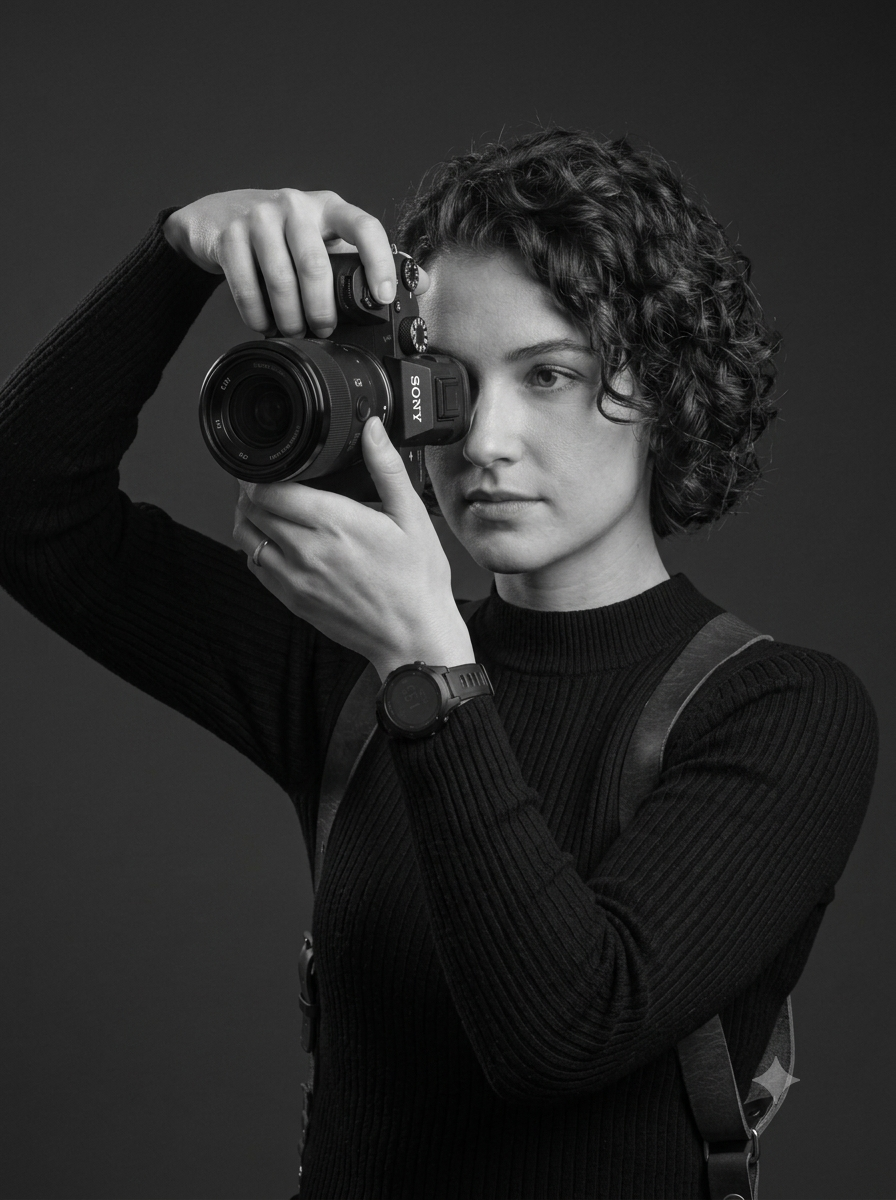
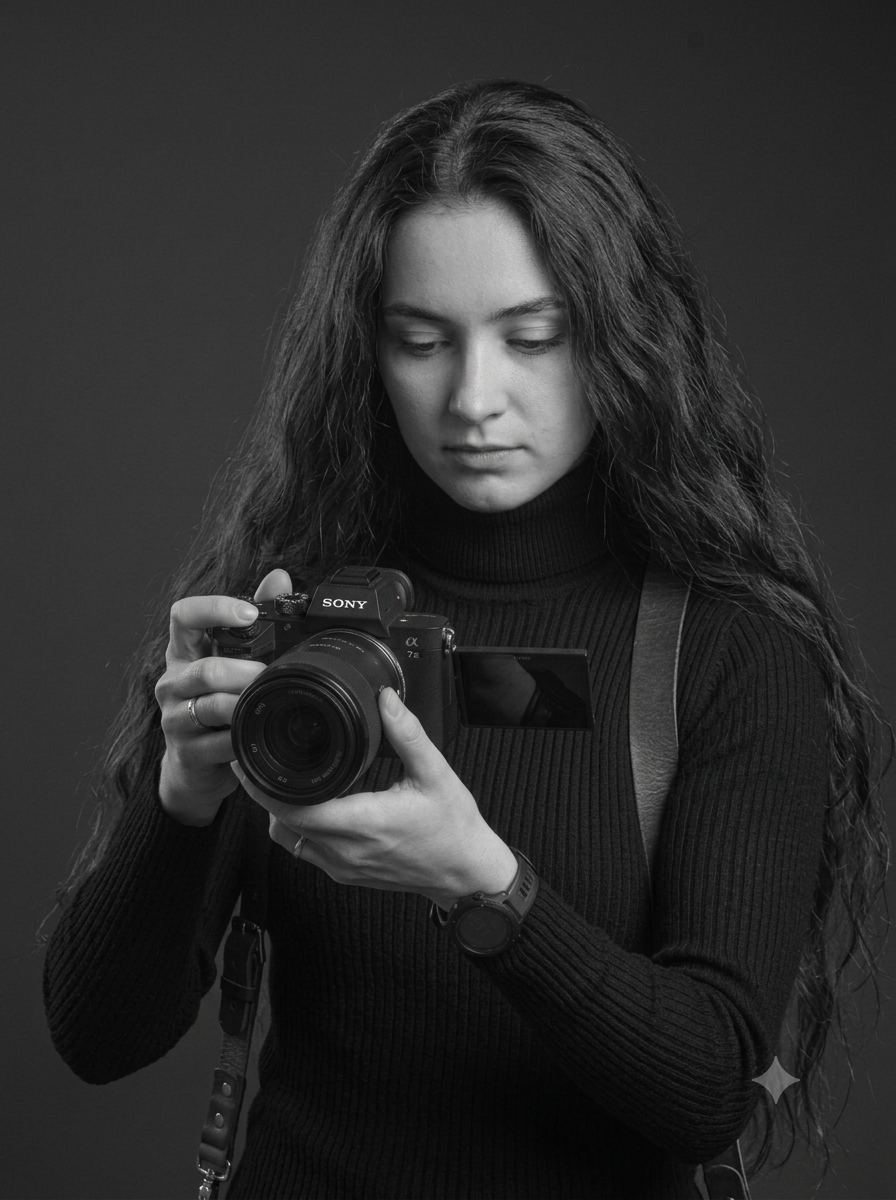
add our team grid

diff --git a/frontend/src/components/OurTeamGrid.css b/frontend/src/components/OurTeamGrid.css
@@ -1,0 +1,133 @@
+.team-section {
+  width: 100%;
+  padding: 60px 20px;
+  background: var(--background-color);
+  box-sizing: border-box;
+}
+
+.team-intro {
+  text-align: center;
+  margin-bottom: 40px;
+  opacity: 0;
+  transform: translateY(20px);
+  transition: all 0.8s ease;
+}
+
+.team-intro.show {
+  opacity: 1;
+  transform: translateY(0);
+}
+
+.team-intro p {
+  font-size: 16px;
+  opacity: 0.9;
+  letter-spacing: 1.5px;
+  line-height: 1.6;
+  text-transform: uppercase;
+  font-family: var(--body-font);
+  color: var(--text-color);
+  max-width: 700px;
+  margin: 0 auto;
+}
+
+.team-masonry {
+  column-count: 3;
+  column-gap: 25px;
+  max-width: 1400px;
+  margin: 0 auto;
+  opacity: 0;
+  transform: scale(0.98);
+  transition: all 0.8s ease;
+}
+
+.team-masonry.show {
+  opacity: 1;
+  transform: scale(1);
+}
+
+.team-card {
+  break-inside: avoid;
+  margin-bottom: 25px;
+  opacity: 0;
+  transform: translateY(30px);
+  transition: all 0.6s ease;
+}
+
+.team-card.show {
+  opacity: 1;
+  transform: translateY(0);
+}
+
+.image-wrapper {
+  position: relative;
+  border-radius: 14px;
+  overflow: hidden;
+  background: #000;
+  box-shadow: 0 10px 30px rgba(0, 0, 0, 0.25);
+}
+
+.image-wrapper img {
+  width: 100%;
+  display: block;
+  object-fit: cover;
+  transform: scale(1.05);
+  transition: transform 0.6s ease, filter 0.6s ease;
+  filter: brightness(0.9) grayscale(10%);
+}
+
+.team-card:hover img {
+  transform: scale(1.12);
+  filter: brightness(0.6) grayscale(0%);
+}
+
+.team-overlay {
+  position: absolute;
+  inset: 0;
+  background: rgba(0, 0, 0, 0.55);
+  display: flex;
+  flex-direction: column;
+  justify-content: center;
+  align-items: center;
+  opacity: 0;
+  transform: scale(1.05);
+  transition: all 0.4s ease;
+  text-align: center;
+  padding: 20px;
+}
+
+.team-card:hover .team-overlay {
+  opacity: 1;
+  transform: scale(1);
+}
+
+.team-role {
+  font-size: 13px;
+  letter-spacing: 2px;
+  text-transform: uppercase;
+  color: #fff;
+  opacity: 0.85;
+  margin-bottom: 8px;
+}
+
+.team-name {
+  font-size: 26px;
+  font-weight: 500;
+  font-family: 'Cormorant Garamond', serif;
+  color: #fff;
+}
+
+@media (max-width: 1200px) {
+  .team-masonry {
+    column-count: 2;
+  }
+}
+
+@media (max-width: 768px) {
+  .team-masonry {
+    column-count: 1;
+  }
+
+  .team-name {
+    font-size: 22px;
+  }
+}

diff --git a/frontend/src/components/OurTeamGrid.jsx b/frontend/src/components/OurTeamGrid.jsx
@@ -1,0 +1,52 @@
+import { useEffect, useRef, useState } from 'react';
+import { OUR_TEAM } from '../constants/ourteam';
+import './OurTeamGrid.css';
+
+const OurTeamGrid = () => {
+  const sectionRef = useRef(null);
+  const [isVisible, setIsVisible] = useState(false);
+
+  useEffect(() => {
+    const observer = new IntersectionObserver(
+      ([entry]) => {
+        if (entry.isIntersecting) {
+          setIsVisible(true);
+        }
+      },
+      { threshold: 0.15 }
+    );
+
+    if (sectionRef.current) observer.observe(sectionRef.current);
+
+    return () => observer.disconnect();
+  }, []);
+
+  return (
+    <section ref={sectionRef} className="team-section">
+      <div className={`team-intro ${isVisible ? 'show' : ''}`}>
+        <p>Meet the creatives behind every captured moment</p>
+      </div>
+
+      <div className={`team-masonry ${isVisible ? 'show' : ''}`}>
+        {OUR_TEAM.map((member, index) => (
+          <div
+            key={member.name}
+            className={`team-card ${isVisible ? 'show' : ''}`}
+            style={{ transitionDelay: `${index * 120}ms` }}
+          >
+            <div className="image-wrapper">
+              <img src={member.image} alt={member.name} />
+
+              <div className="team-overlay">
+                <p className="team-role">{member.role}</p>
+                <p className="team-name">{member.name}</p>
+              </div>
+            </div>
+          </div>
+        ))}
+      </div>
+    </section>
+  );
+};
+
+export default OurTeamGrid;

diff --git a/frontend/src/pages/OurTeamPage.jsx b/frontend/src/pages/OurTeamPage.jsx
@@ -2,12 +2,14 @@ import Header from '../components/Header';
 import Footer from '../components/Footer';
 import OurTeamHero from './ourteamhero';
 import './OurTeamPage.css';
+import OurTeamGrid from '../components/OurTeamGrid';
 
 const OurTeamPage = () => {
   return (
     <div className="ourteam-page">
       <Header />
       <OurTeamHero />
+      <OurTeamGrid />
       <Footer />
     </div>
   );

diff --git a/frontend/src/constants/ourteam.js b/frontend/src/constants/ourteam.js
@@ -16,12 +16,12 @@ export const OUR_TEAM = [
     image: teammember2
   },
   {
-    name: 'Mike Johnson',
+    name: 'Sarah Williams',
     role: 'Photographer',
     image: teammember3
   },
   {
-    name: 'Sarah Williams',
+    name: 'Mike Johnson',
     role: 'Photographer',
     image: teammember4
   },
